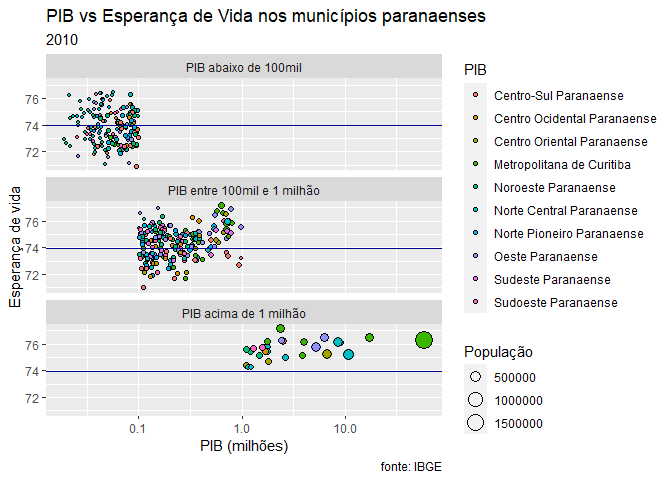
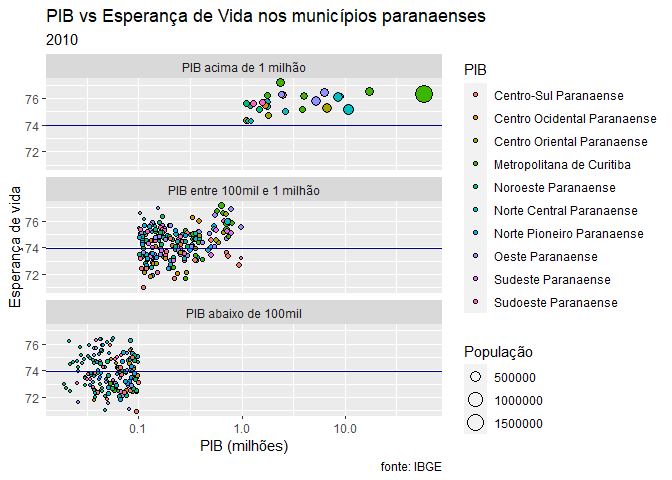
reorder grupo_pib factor

diff --git a/README.md b/README.md
@@ -433,7 +433,7 @@ dados_pr <- dados_pr %>%
   mutate(grupo_pib = case_when(pib > 1000000 ~ "PIB acima de 1 milhão",
                                pib <= 1000000 & pib > 100000 ~ "PIB entre 100mil e 1 milhão",
                                pib <= 100000 ~ "PIB abaixo de 100mil"),
-         grupo_pib = ordered(as.factor(grupo_pib), levels = c("PIB abaixo de 100mil", "PIB entre 100mil e 1 milhão", "PIB acima de 1 milhão")))
+         grupo_pib = ordered(as.factor(grupo_pib), levels = c("PIB acima de 1 milhão", "PIB entre 100mil e 1 milhão", "PIB abaixo de 100mil")))
 
 pr_plot <- 
   ggplot(data = (dados_pr %>% filter(!is.na(esp_vida)))) +
